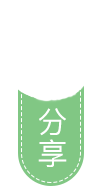
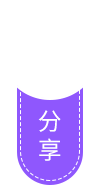
'修改UI第一次'

Changed region(s): [[0.15, 0.4545, 0.84, 0.9893]]

diff --git a/pages/player/player.js b/pages/player/player.js
@@ -21,6 +21,7 @@ Page({
     onLoad: function(options) {
         console.log('onLoad');
         let _this = this;
+        app.globalData.userInfo.nickName = app.globalData.userInfo.nickName.slice(0,8);
         this.setData({
             userinfo: app.globalData.userInfo,
             questionNum: app.questionNum,
@@ -218,7 +219,7 @@ Page({
                         let endGameUrl = Loginfunc.domin + `/wx/opp/end`;
                         Loginfunc.requestURl(app, endGameUrl, "POST", {}, function(data) {
                             if (data.code == 200) {
-                                app.globalData.userGetRedNum = parseFloat(data.data.amount);
+                                app.globalData.userGetRedNum = parseFloat(data.data.amount).toFixed(2);
                                 console.log(app.globalData.userGetRedNum);
                             }
                         });
@@ -293,7 +294,7 @@ Page({
             answerbgColor: ['linear-gradient(to right, #ad64f3, #7977fc)', 'linear-gradient(to right, #ad64f3, #7977fc)', 'linear-gradient(to right, #ad64f3, #7977fc)', 'linear-gradient(to right, #ad64f3, #7977fc)'],
         });
         let _this = this;
-        let assetsUrl = "${app.globalData.appUrl}storage/";
+        let assetsUrl = `${app.globalData.appUrl}storage/`;
         let getAnswerTitleUrl = Loginfunc.domin + `wx/opp/question`;
         Loginfunc.requestURl(app, getAnswerTitleUrl, "POST", {}, function(data) {
             console.log('getAnswerTitleUrl', data);
@@ -302,7 +303,7 @@ Page({
                     data.data.option[i].value = data.data.option[i].value.slice(0, 8);
                 };
                 let audioSrc = assetsUrl + data.data.link;
-                console.log(audioSrc);
+                console.log('???????????',audioSrc);
                 _this.audioFunc(audioSrc);
                 _this.showTime = setTimeout(function() {
                     _this.setData({

diff --git a/pages/index/index.js b/pages/index/index.js
@@ -128,15 +128,15 @@ Page({
         Loginfunc.requestURl(app, startGameUrl, "POST", {}, function(data) {
             console.log('startGameUrl', data.code);
             if (data.code == 210) {
-                // _this.setData({
-                //     ifshowNochanceMask: true,
-                // });
-                wx.showModal({
-                    title: '提示',
-                    content: '挑战机会不足',
-                    showCancel: false,
-                    success: function (res) {}
-                })
+                _this.setData({
+                    ifshowNochanceMask: true,
+                });
+                // wx.showModal({
+                //     title: '提示',
+                //     content: '挑战机会不足',
+                //     showCancel: false,
+                //     success: function (res) {}
+                // })
             };
             if (data.code == 200) {
                 wx.navigateTo({

diff --git a/utils/answer.js b/utils/answer.js
@@ -1,6 +1,6 @@
 let answerOK = {
     songName: '海阔天空',
-    textcolor: '#26A69A',
+    textcolor: '#8E86F5',
     answerflg: "回答正确",
     btntext: '下一首',
     expression: '/assets/mask/smile.png',
